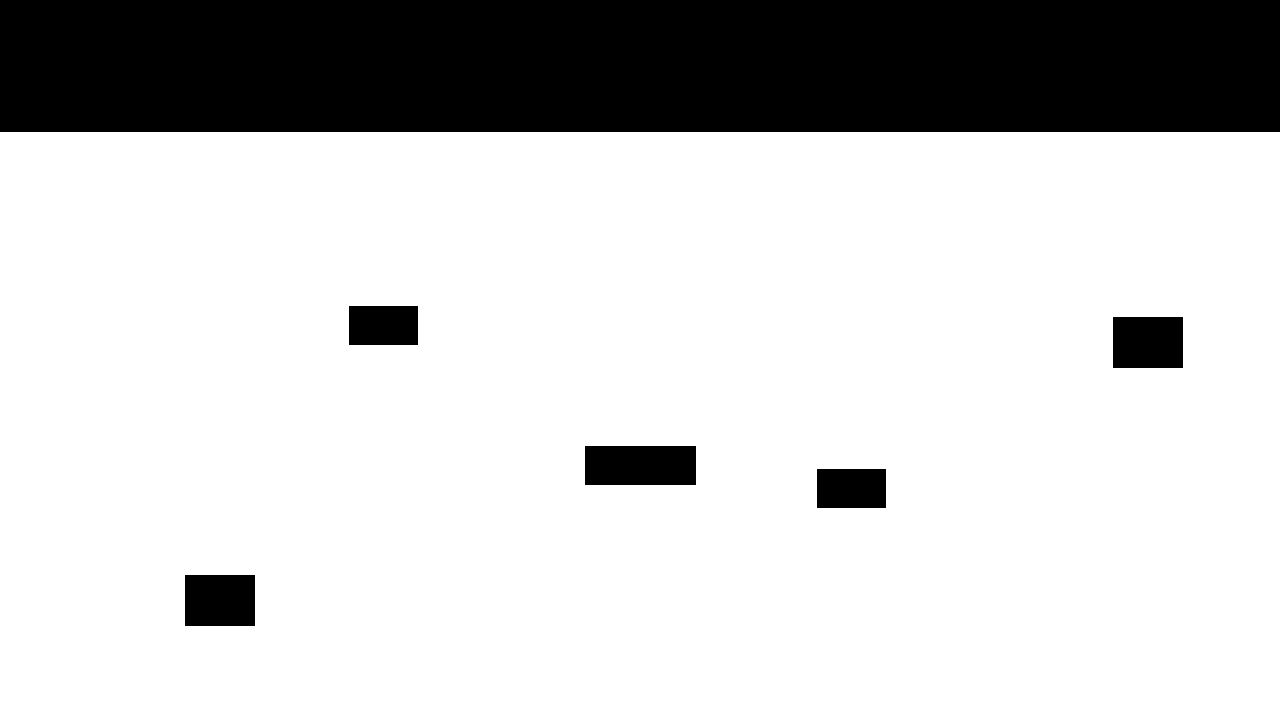
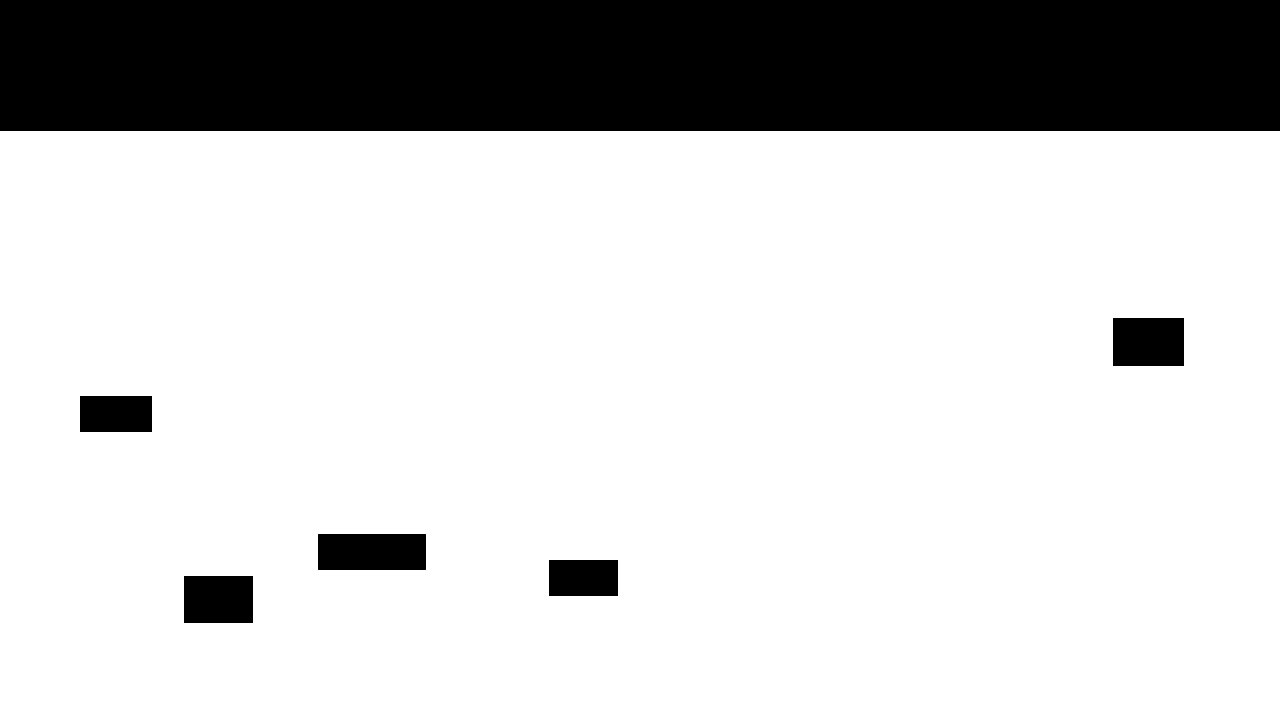
colisao

diff --git a/src/localizacao.c b/src/localizacao.c
@@ -78,9 +78,9 @@ void inimigoAquatico(int tile, int *xAquatico, int *yAquatico, int *x, int *y, i
 
     if(*yAquatico > *y){
         
-        if(t <= 6){
+        if(t <= 24){
             al_draw_scaled_bitmap(iniAquatico[6], 0, 0, 33, 24, *xAquatico, *yAquatico, 66, 48, 0);
-        }else if(t <= 12){
+        }else if(t <= 48){
             al_draw_scaled_bitmap(iniAquatico[7], 0, 0, 33, 24, *xAquatico, *yAquatico, 66, 48, 0);
         }   
 
@@ -90,10 +90,10 @@ void inimigoAquatico(int tile, int *xAquatico, int *yAquatico, int *x, int *y, i
 
     }else{
         
-        if(t <= 6){
+        if(t <= 24){
             al_draw_scaled_bitmap(iniAquatico[4], 0, 0, 33, 24, *xAquatico, *yAquatico, 66, 48, 0);
-        }else if(t <= 12){
-            al_draw_scaled_bitmap(iniAquatico[5], 0, 0, 33, 24, *xAquatico, *yAquatico, 66, 48, 0);
+        }else if(t <= 48){
+            al_draw_scaled_bitmap(iniAquatico[5], 0, 0, 33, 24, *xAquatico, *yAquatico + 20, 66, 48, 0);
         }
 
         if(r = TEMPO_PROJETIL){
@@ -119,7 +119,7 @@ void inimigoAquatico(int tile, int *xAquatico, int *yAquatico, int *x, int *y, i
 
     t += 1;
     
-    if(t > 12){
+    if(t > 48){
         t = 0;
     }
     if(r > TEMPO_PROJETIL){
